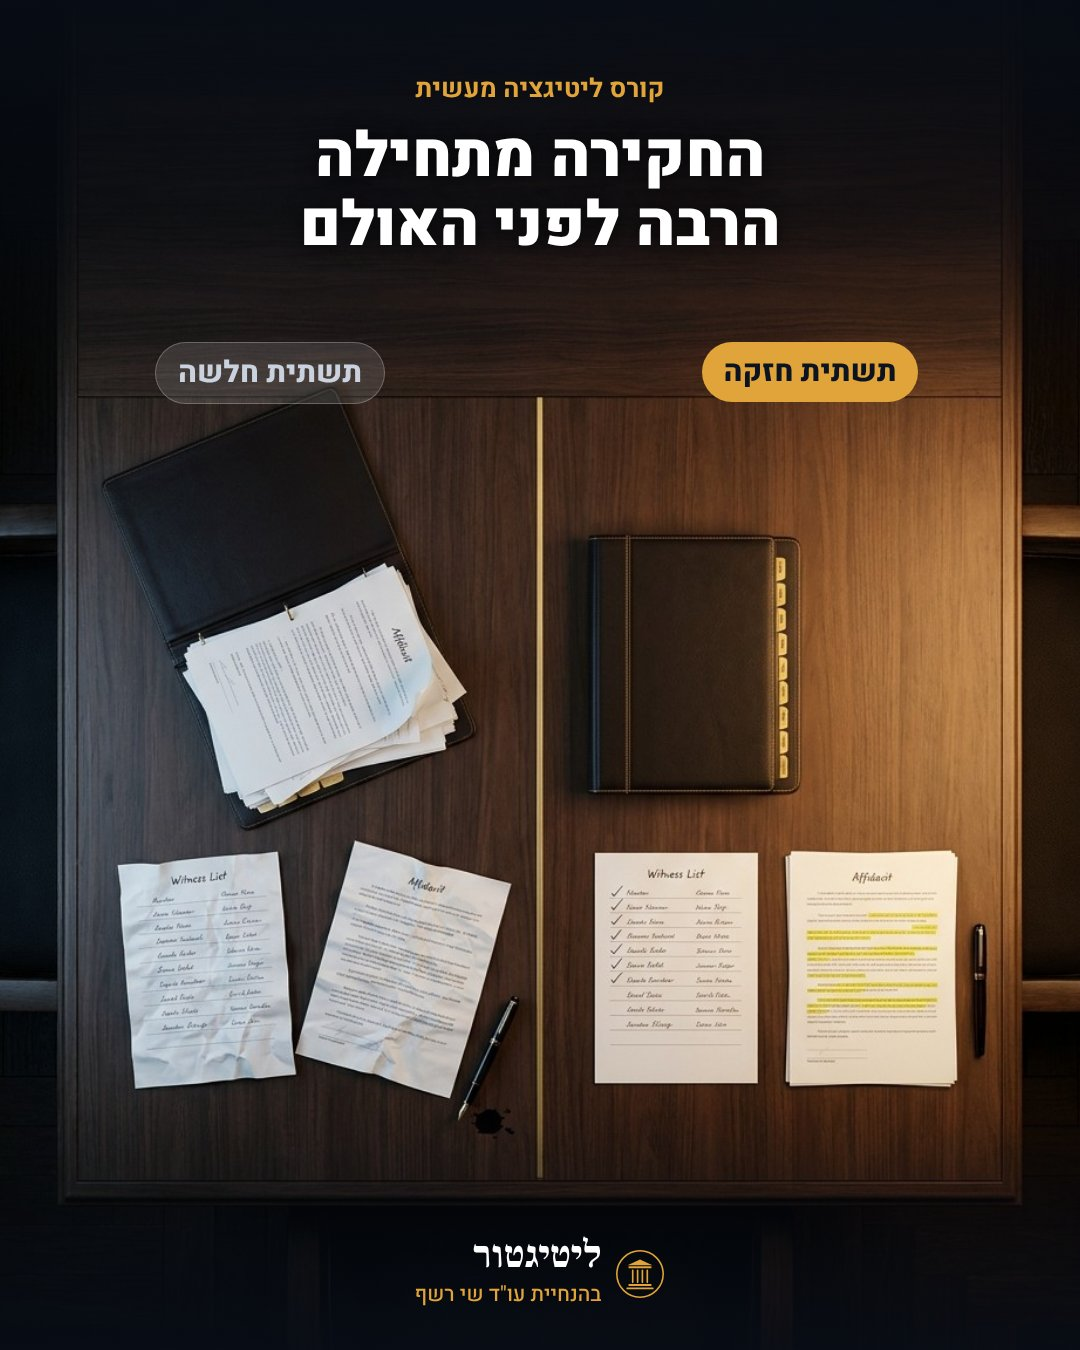
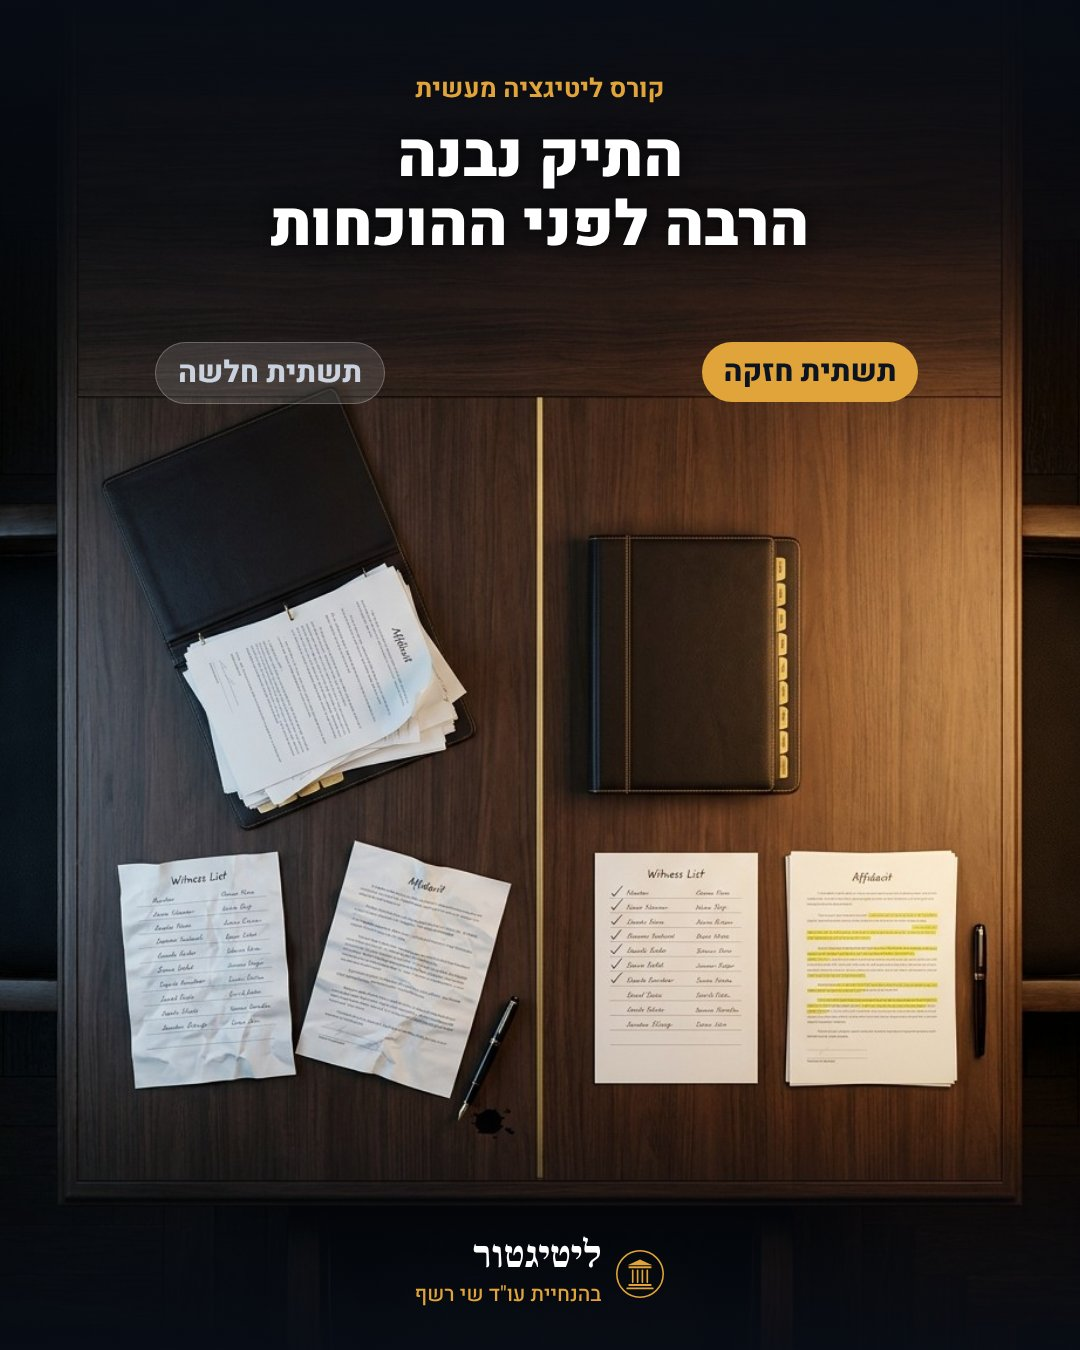
Foundation ad headline: התיק נבנה הרבה לפני ההוכחות
Claude-Session: https://claude.ai/code/session_01GauvtpQtmPzyaCkAz8AxXW

Changed region(s): [[0.2444, 0.0933, 0.7639, 0.1867]]

diff --git a/CLAUDE.md b/CLAUDE.md
@@ -81,7 +81,7 @@
 - [ ] טקסט Advantage+ (AI) שיובל אישר: לבדוק שאין הבטחות/מחיר/"משוב אישי"/"סימולציה"/"צעיר"/מספרים שלא בדף
 - [ ] מיקומים: להחריג Audience Network ברמת החשבון (Ad account settings ← Excluded placements); לבדוק חיתוך פיד 4:5 של הסרטון (כתוביות לא נחתכות)
 - [ ] בכל מודעה: Optimize text per person כבוי, Review defaults (טקסט כבוי), 4 Headlines + Description, משולש אזהרה בתצוגה
-- [x] **אד סט 7 "התשתית"**: תמונה מוכנה עם טקסט (`ads/ad-foundation-feed.jpg`, `ads/ad-foundation-story.jpg`): "החקירה מתחילה הרבה לפני האולם" + תשתית חזקה/חלשה
+- [x] **אד סט 7 "התשתית"**: תמונה מוכנה עם טקסט (`ads/ad-foundation-feed.jpg`, `ads/ad-foundation-story.jpg`): "התיק נבנה הרבה לפני ההוכחות" + תשתית חזקה/חלשה
 - [ ] מבנה בפועל: 7 אד סטים (מודעה אחת בכל אחד; 7 = התשתית), 4 וידאו + 3 תמונות; תקציב ~30–35 ₪/יום לאד סט + Campaign spending limit 3,000 ₪
 
 ## העלאה לאוויר
